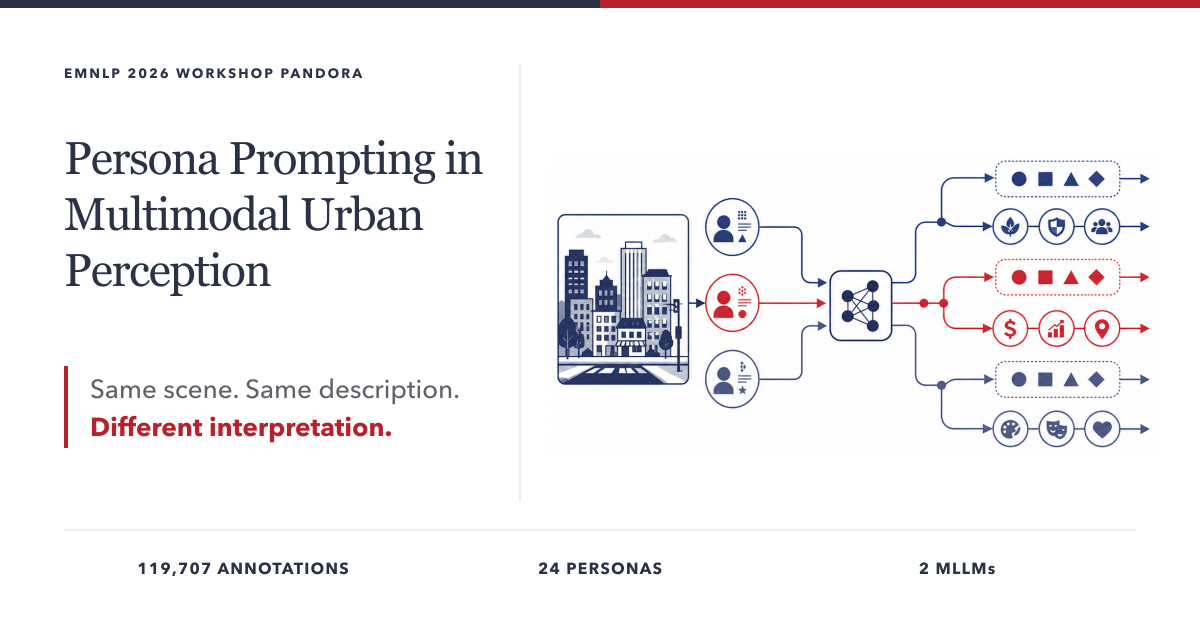
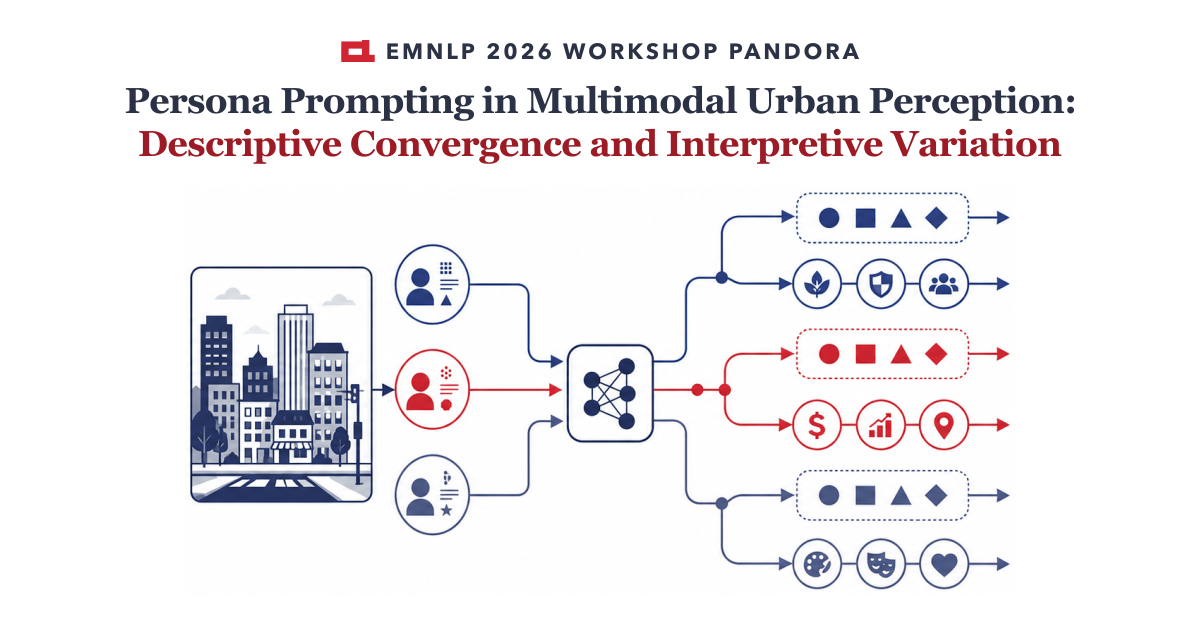
style(og): rebuild the social card around the diagram
Drop the tagline, study stats, top stripe and hairlines. Stack the EMNLP 2026 mark, redrawn from the conference logo, beside EMNLP 2026 WORKSHOP PANDORA in 22px bold (from 13.5px); the paper's full title under it in 36px bold Georgia, navy then red; and the persona-flow diagram, cropped to its ink, at 0.7057 scale (from 0.51). public/og.png is re-rendered from artwork/og-social-card.svg, and the test checks the card's mark, title and diagram instead of the removed text.

diff --git a/artwork/README.md b/artwork/README.md
@@ -1,6 +1,6 @@
 # Social preview artwork
 
-`og-social-card.svg` is the editable 1200 × 630 source for the paper's Open Graph preview. It composes exact, deterministic typography over `og-scientific-flow.png`, a supporting scientific illustration generated with OpenAI ImageGen.
+`og-social-card.svg` is the editable 1200 × 630 source for the paper's Open Graph preview. It stacks the EMNLP 2026 mark (redrawn as a vector from the conference logo, the same path the page's hero uses) beside the venue label, the paper's title in exact, deterministic type, and `og-scientific-flow.png`, a scientific illustration generated with OpenAI ImageGen that the card crops to the diagram alone.
 
 Render the published PNG from this directory with:
 
